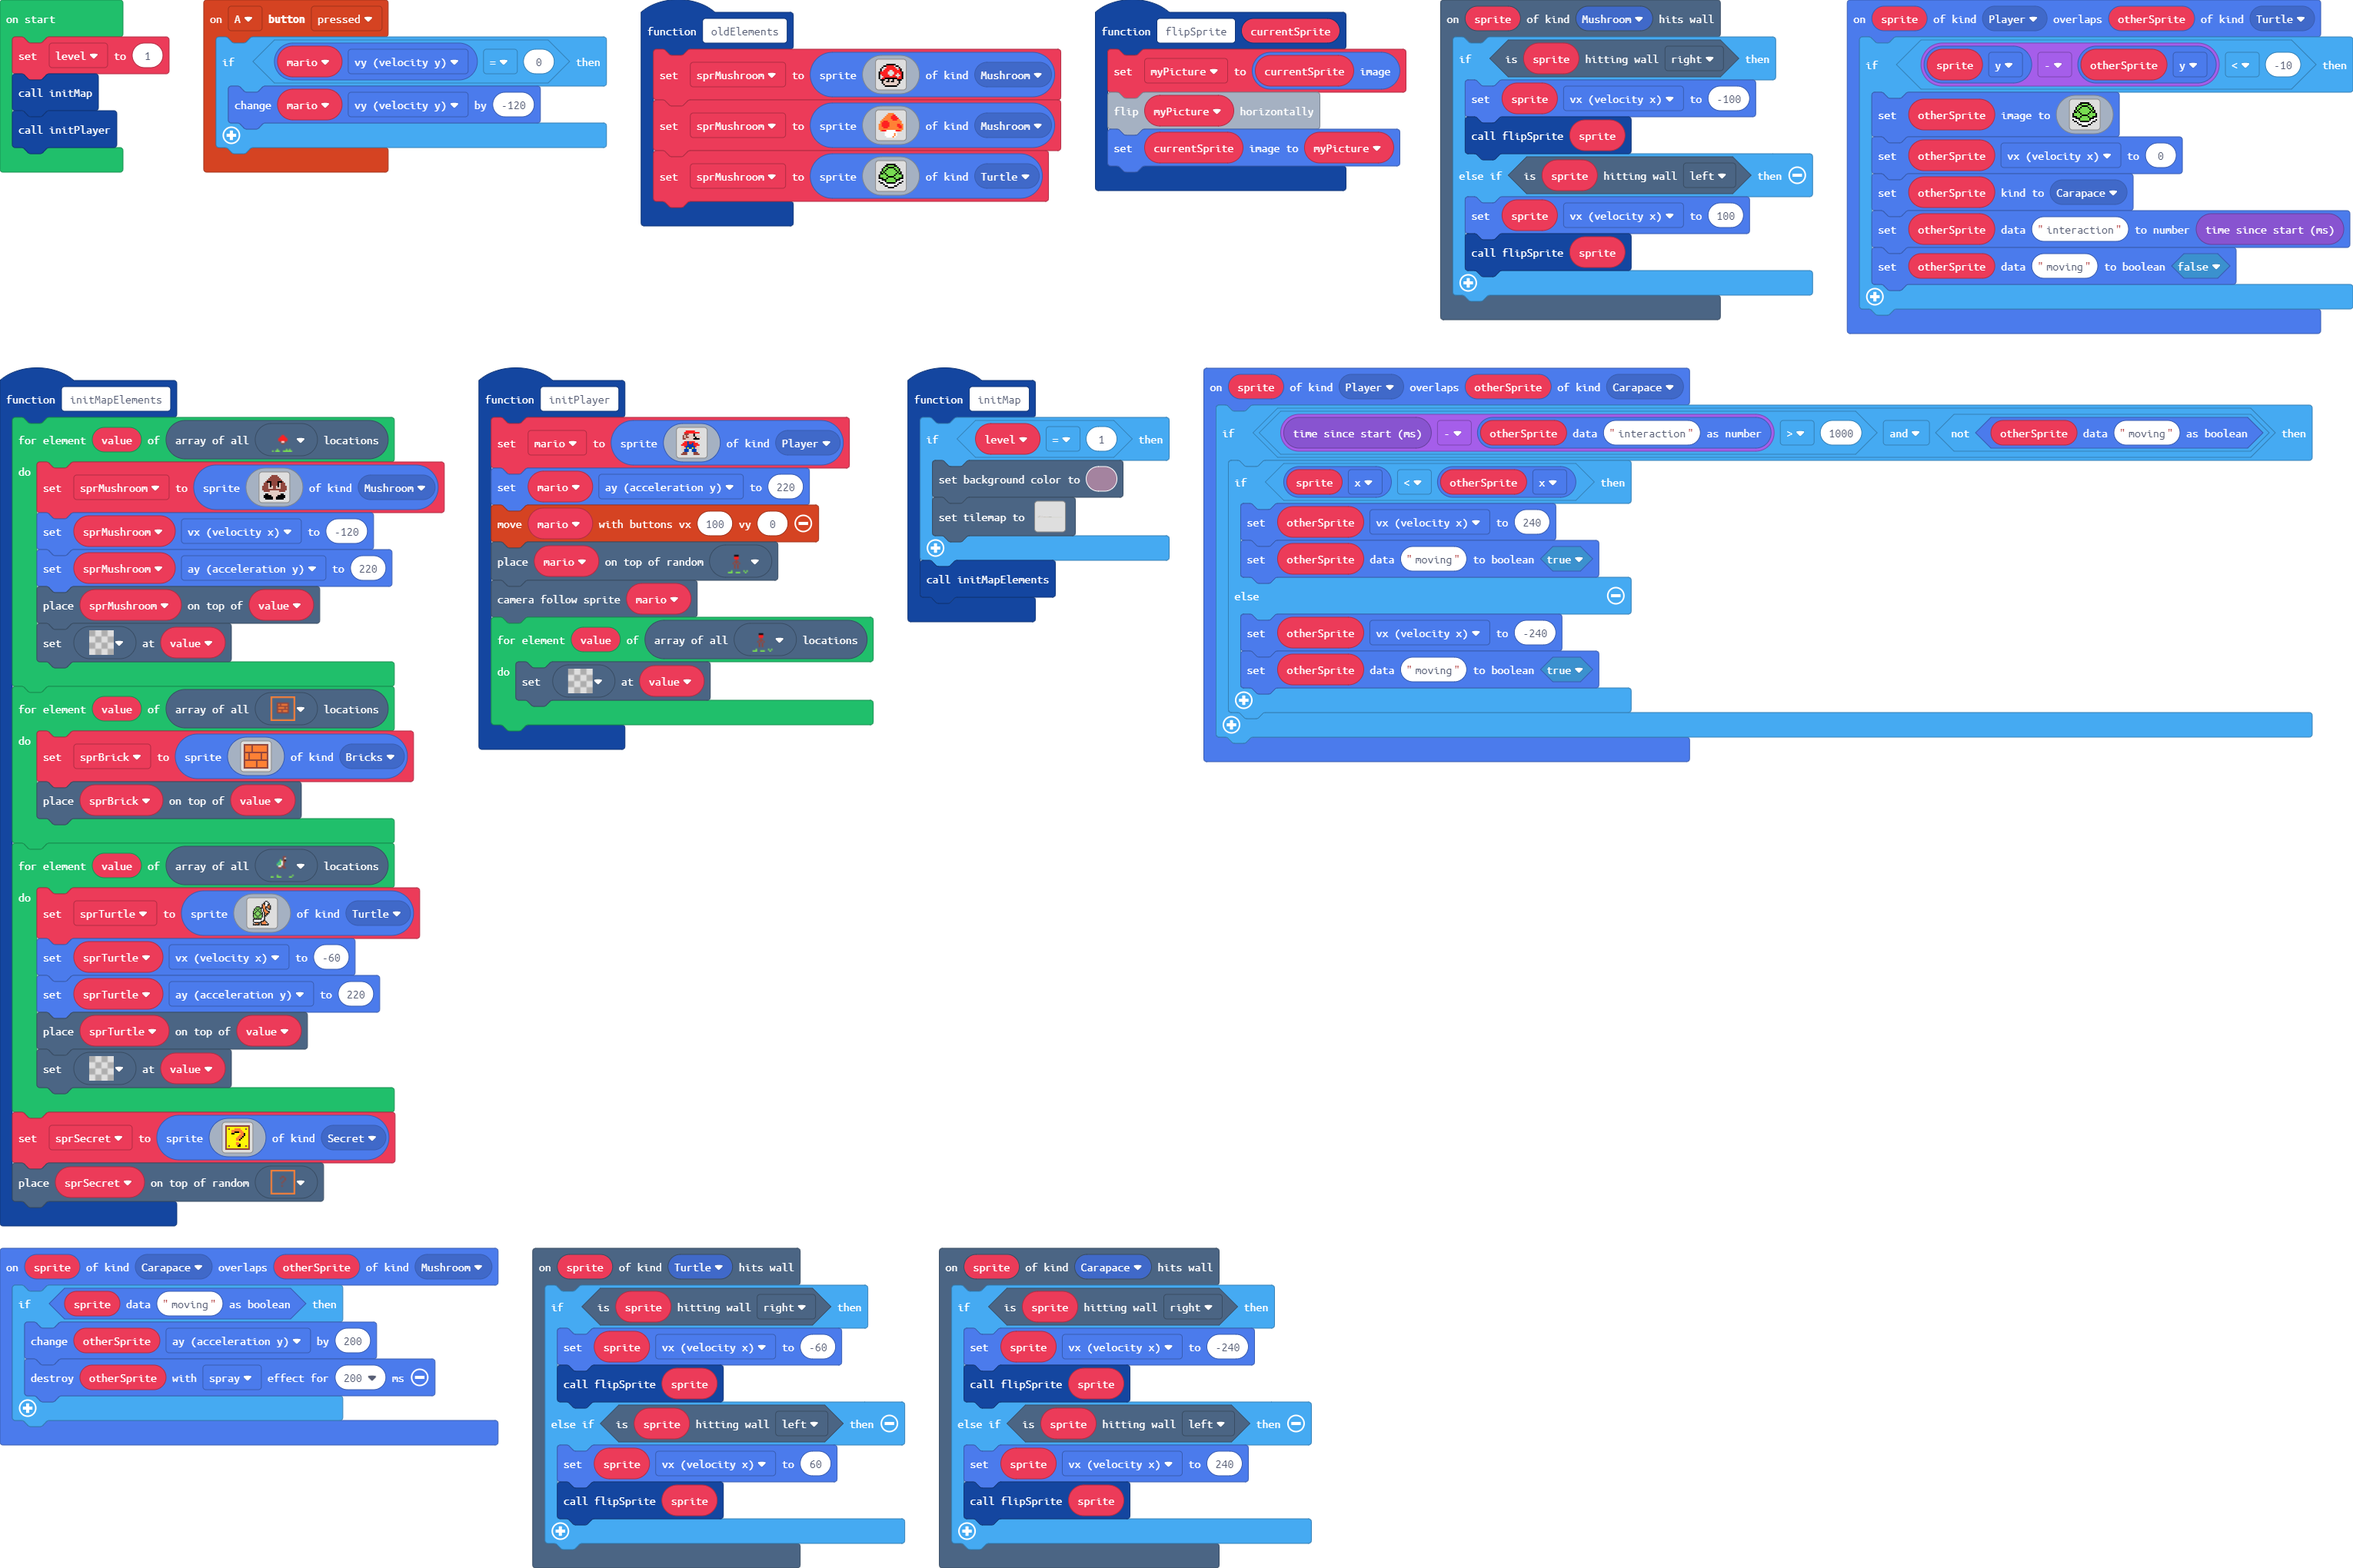
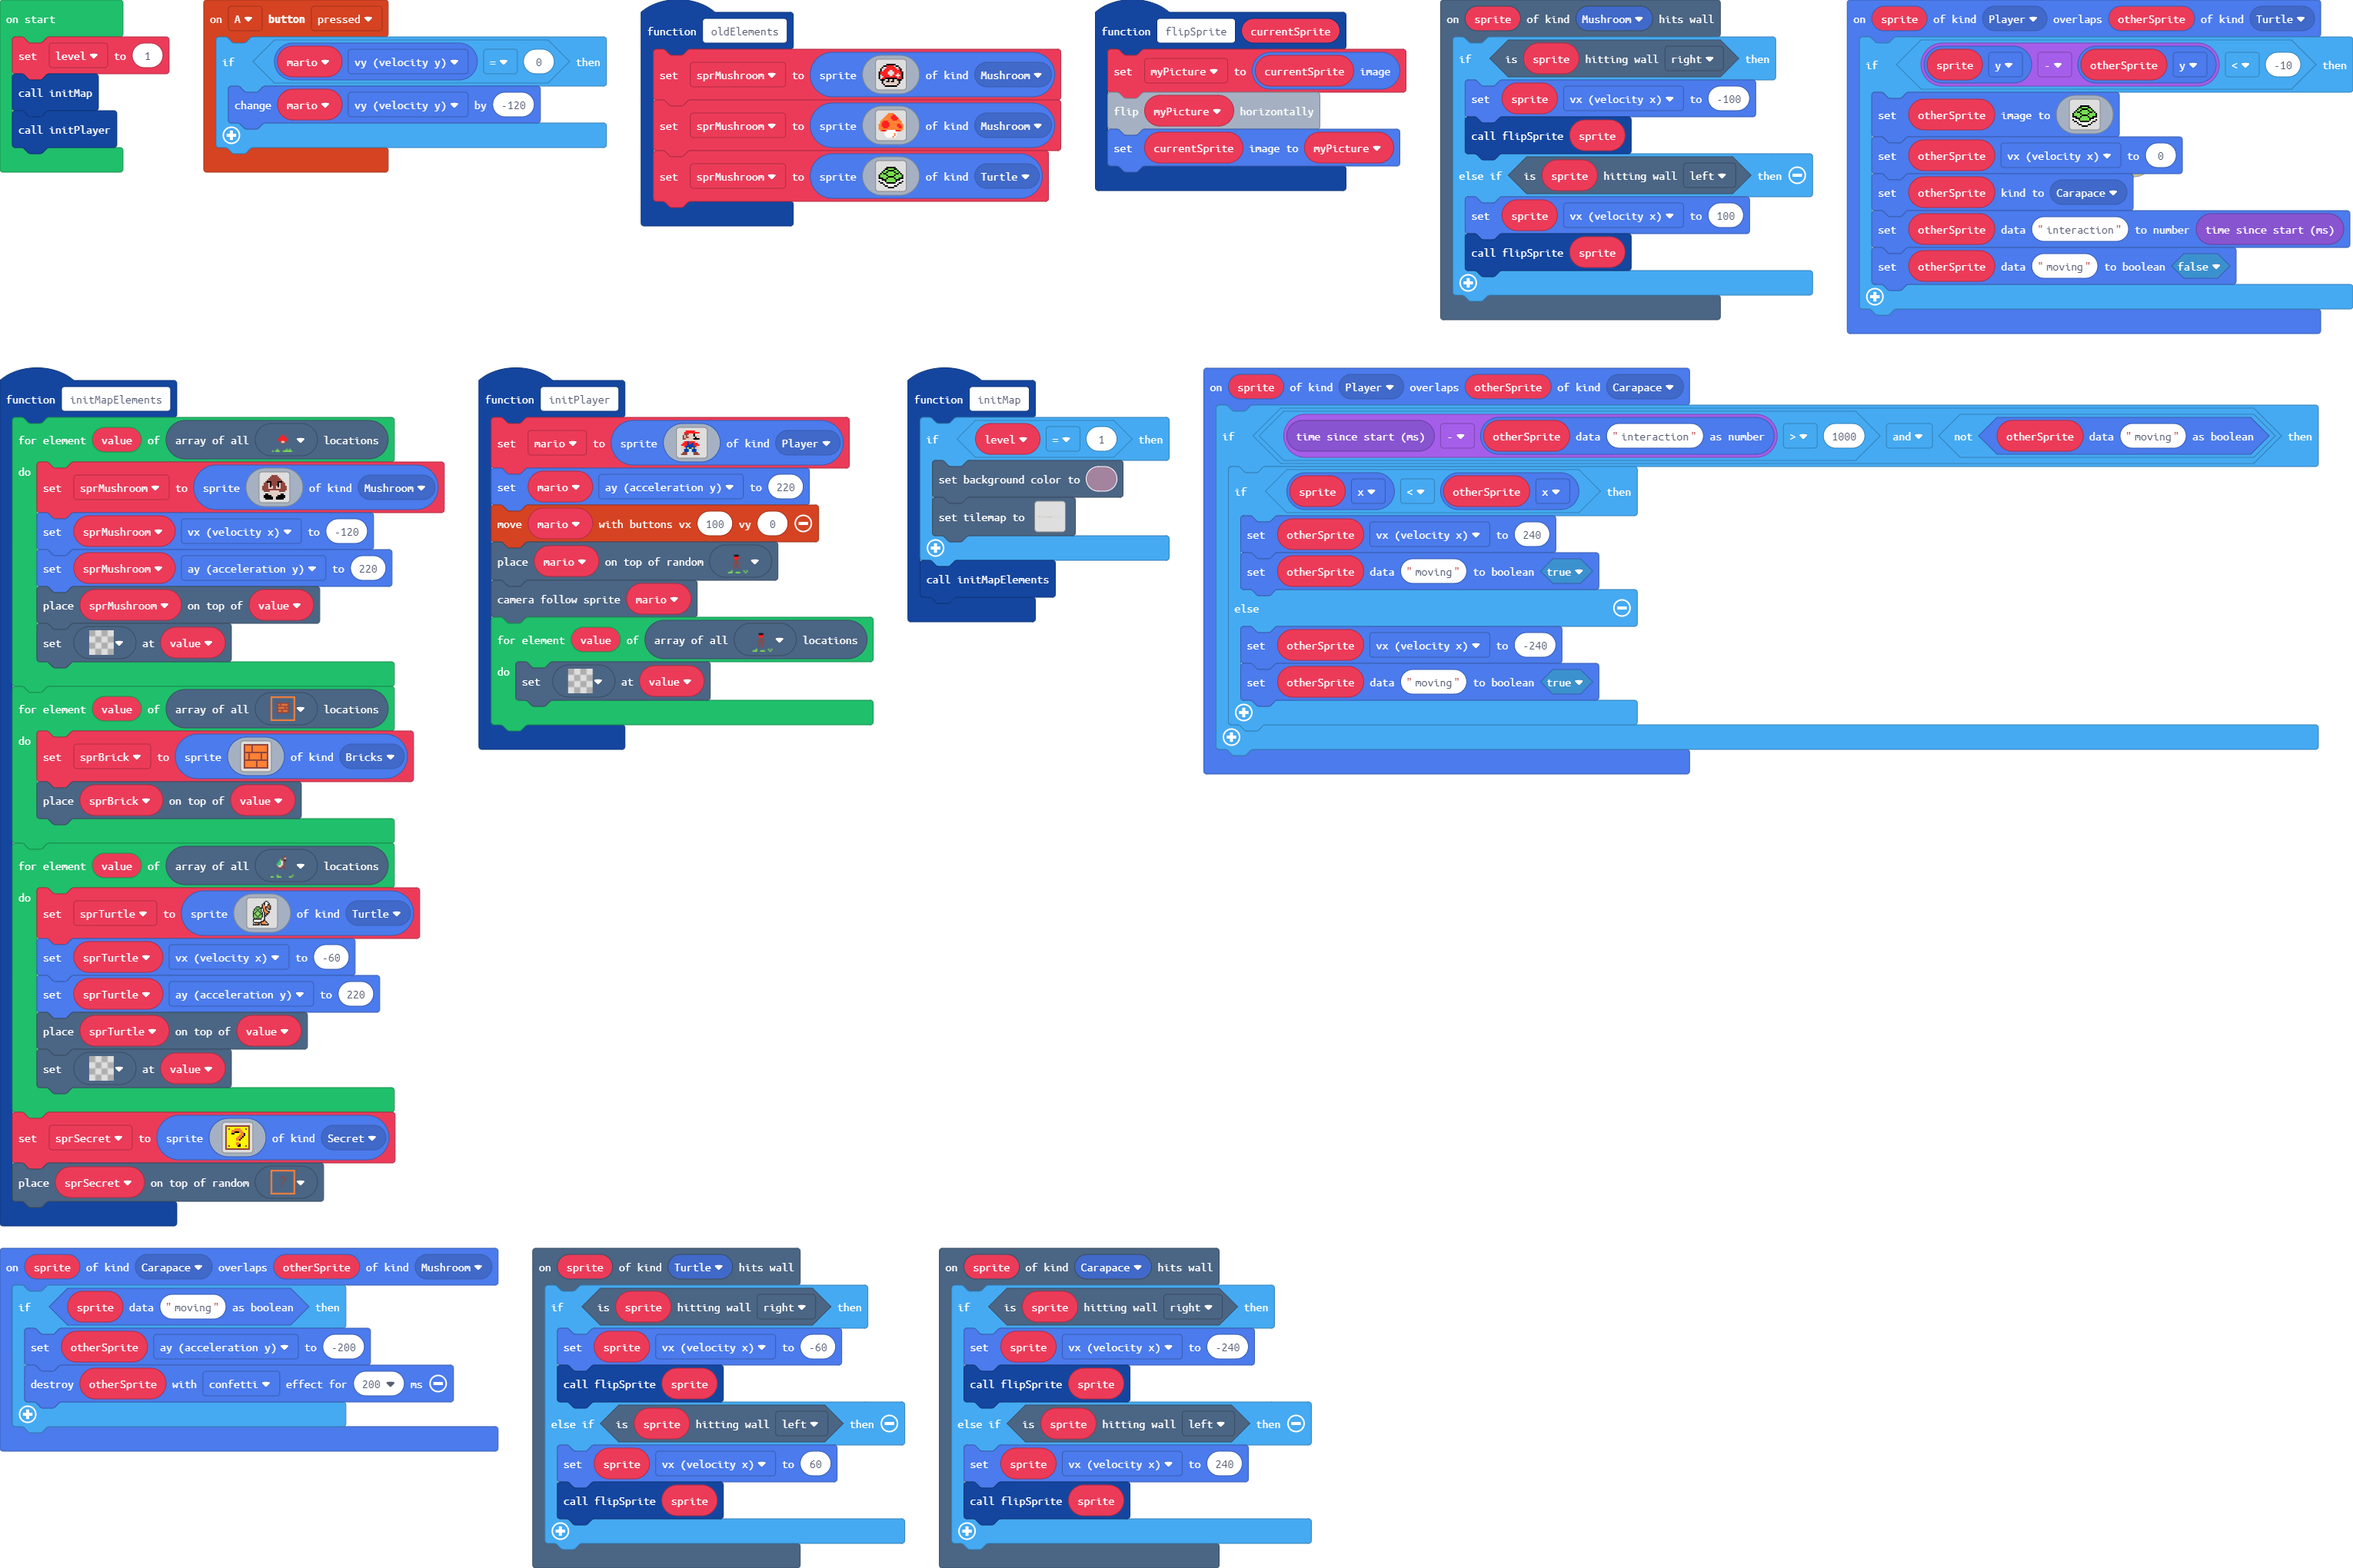
refining

Changed region(s): [[0.4967, 0.2471, 0.9935, 0.4941], [0.0, 0.8029, 0.2173, 0.9265], [0.8072, 0.1544, 0.8382, 0.1853]]

diff --git a/main.ts b/main.ts
@@ -238,13 +238,13 @@ e e e e e e e e e e e e e e e e
 sprites.onOverlap(SpriteKind.Player, SpriteKind.Turtle, function (sprite, otherSprite) {
     if (sprite.y - otherSprite.y < -10) {
         otherSprite.setImage(img`
+. . . . . . . . . . . . . . . . 
+. . . . . . . . . . . . . . . . 
 . . . . . f f f f f f . . . . . 
 . . . . f f 7 7 7 7 f f . . . . 
 . . . f 7 7 f f f f 7 7 f . . . 
 . . f 7 7 f 7 7 7 7 f 7 7 f . . 
-. . f 7 f 7 7 7 7 7 7 f 7 f . . 
-. f 7 f 7 7 7 7 7 7 7 7 f 7 f . 
-. f f 7 f 7 7 7 7 7 7 f 7 f f . 
+. f 7 f f 7 7 7 7 7 7 f f 7 f . 
 f 7 7 7 7 f 7 7 7 7 f 7 7 7 7 f 
 f 7 7 7 7 7 f f f f 7 7 7 7 7 f 
 f f f 7 7 f 7 7 7 7 f 7 7 f f f 
@@ -370,7 +370,7 @@ function initMap () {
     if (level == 1) {
         scene.setBackgroundColor(11)
         tiles.setTilemap(tiles.createTilemap(
[2 lines of base64/hex data omitted]
             img`
 2 . . . . . . . . . . . . . . . . . . . . . . . . . . . . . . . . . . . . . . . . . . . . . . . . . . . . . . . . . . . . . . . . . . . . . . . . . . . . . . . 
 2 . . . . . . . . . . . . . . . . . . . . . . . . . . . . . . . . . . . . . . . . . . . . . . . . . . . . . . . . . . . . . . . . . . . . . . . . . . . . . . . 
@@ -486,13 +486,13 @@ f . 2 2 f f f f f f f f 2 2 2 f
 . . . . . 1 1 1 1 4 1 . . . . . 
 `, SpriteKind.Mushroom)
     sprMushroom = sprites.create(img`
+. . . . . . . . . . . . . . . . 
+. . . . . . . . . . . . . . . . 
 . . . . . f f f f f f . . . . . 
 . . . . f f 7 7 7 7 f f . . . . 
 . . . f 7 7 f f f f 7 7 f . . . 
 . . f 7 7 f 7 7 7 7 f 7 7 f . . 
-. . f 7 f 7 7 7 7 7 7 f 7 f . . 
-. f 7 f 7 7 7 7 7 7 7 7 f 7 f . 
-. f f 7 f 7 7 7 7 7 7 f 7 f f . 
+. f 7 f f 7 7 7 7 7 7 f f 7 f . 
 f 7 7 7 7 f 7 7 7 7 f 7 7 7 7 f 
 f 7 7 7 7 7 f f f f 7 7 7 7 7 f 
 f f f 7 7 f 7 7 7 7 f 7 7 f f f 
@@ -506,8 +506,8 @@ f 1 1 1 f 7 7 7 7 7 7 f 1 1 1 f
 }
 sprites.onOverlap(SpriteKind.Carapace, SpriteKind.Mushroom, function (sprite, otherSprite) {
     if (sprites.readDataBoolean(sprite, "moving")) {
-        otherSprite.ay += 200
-        otherSprite.destroy(effects.spray, 200)
+        otherSprite.ay = -200
+        otherSprite.destroy(effects.confetti, 200)
     }
 })
 function flipSprite (currentSprite: Sprite) {
